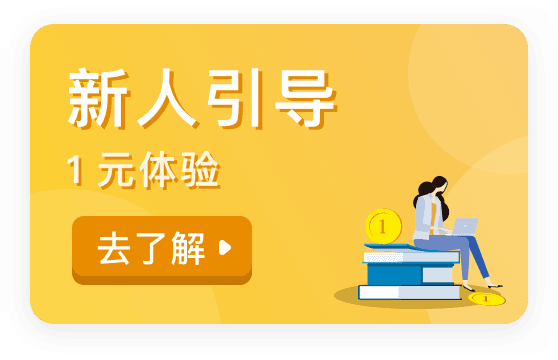
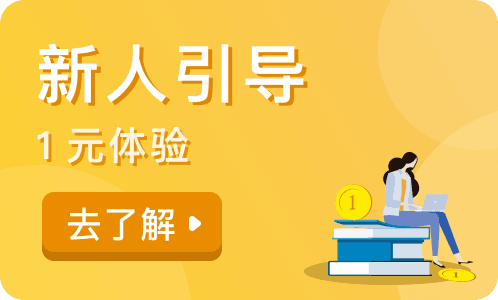
feat:首页修改

diff --git a/src/pages/index/index.less b/src/pages/index/index.less
@@ -8,21 +8,18 @@
   overflow: hidden;
   width: 100%;
   height: 370rpx;
-  background-image: linear-gradient(0deg, #625c82 15%, #3e3b51 100%);
   padding-left: 40rpx;
   padding-right: 40rpx;
   box-sizing: border-box;
+  position: relative;
 }
-.idx_header:after {
-  content: " ";
-  width: 0;
-  height: 0;
-  border-left: 375rpx solid transparent;
-  border-right: 375rpx solid transparent;
-  border-bottom: 100rpx solid #ffffff;
+.idx_banner {
+  width: 100%;
+  height: 100%;
   position: absolute;
-  top: 270rpx;
+  top: -4rpx;
   left: 0;
+  z-index: -1;
 }
 .title-msg {
   display: flex;
@@ -258,13 +255,18 @@
 .adver2-2 image {
   width: 100%;
   height: 100%;
+  border-radius: 16rpx;
 }
 .adver2-1,
 .adver2-2 {
   width: 332rpx;
   height: 200rpx;
+  box-shadow: 0 2px 10px 0 rgba(0, 0, 0, 0.1);
+  border-radius: 16rpx;
 }
-
+.adver2-1 {
+  margin-right: 22rpx;
+}
 .nearby_room {
   width: 100%;
   font-family: "PingFangSC-Medium";

diff --git a/src/pages/index/index.html b/src/pages/index/index.html
@@ -22,7 +22,7 @@
         <text class="my-name">我的</text>
       </view>
     </view>
-
+    <image class="idx_banner" src="../images/indexImg/banner1.png"></image>
   </view>
   <!-- 轮播图 -->
   <view class="metting-wrap">
